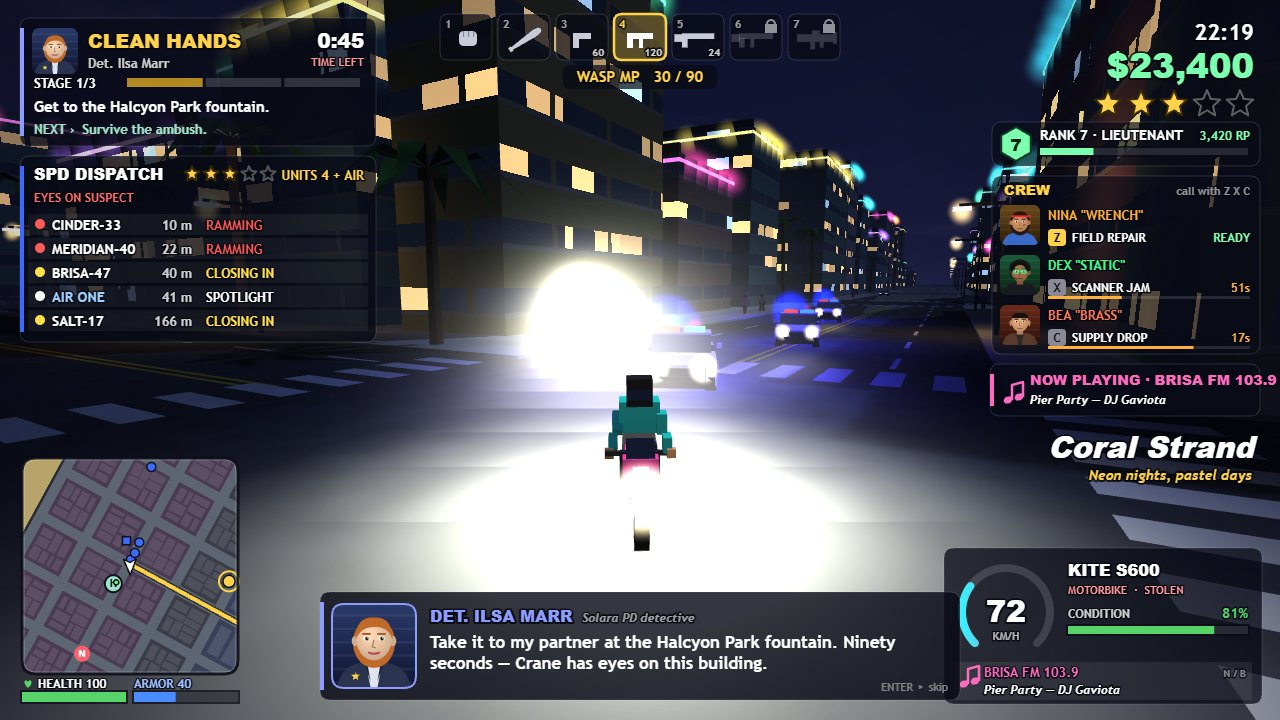
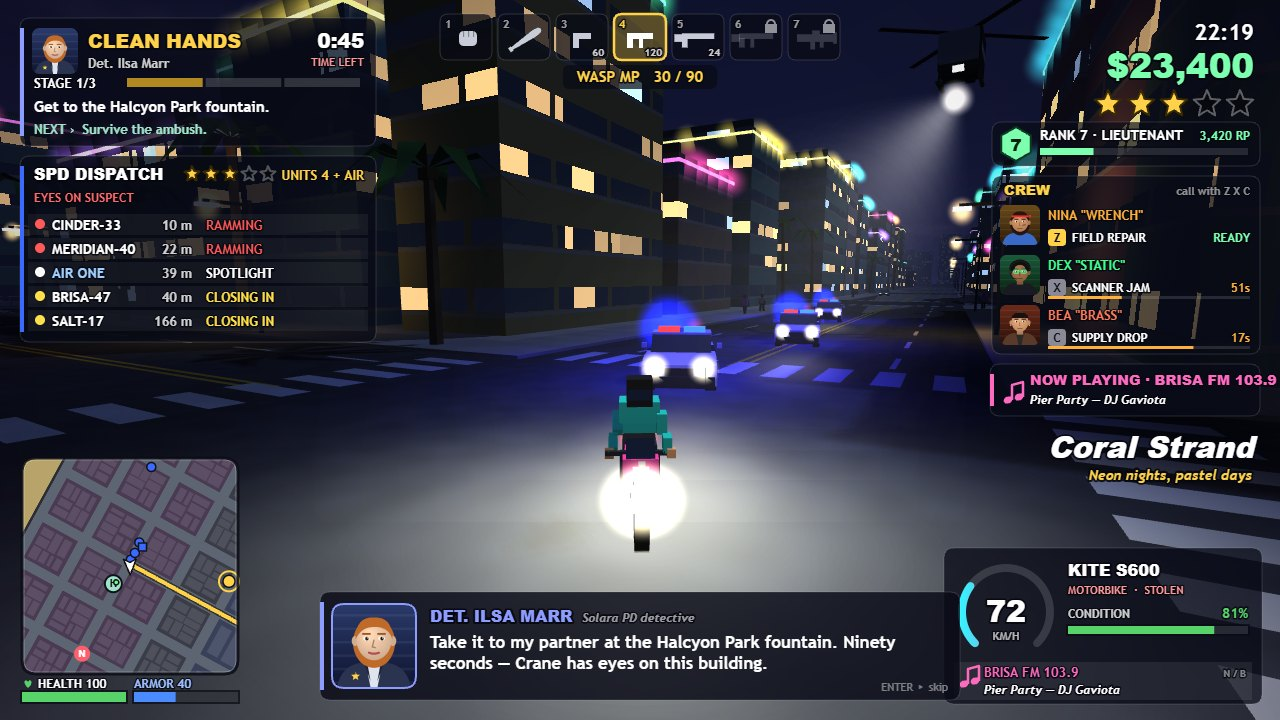
Mainland skyline across the bay, softer spotlight cone, helicopter framed in the night shot

diff --git a/game/src/world/citymesh.js b/game/src/world/citymesh.js
@@ -56,6 +56,7 @@ export function buildCityMeshes(city) {
   buildEdgeGreenery(cs, rng);
   buildFreighter(cs.global);
   buildPier(cs.global);
+  buildMainlandSkyline(cs.global, makeRng(4242));
   const ferris = buildFerrisWheel();
   return { ...cs.build(), ferris, ferrisCenter: [PIER.x1 - 30, 26, (PIER.z0 + PIER.z1) / 2] };
 }
@@ -342,6 +343,42 @@ function buildEdgeGreenery(cs, rng) {
     const b = { x: -26 + rng.range(-4, 4), z: t + rng.range(-2, 2), h: rng.range(5, 8), r: rng.range(2.5, 3.8) };
     buildTree(cs.at(a.x, a.z), a);
     buildTree(cs.at(b.x, b.z), b);
+  }
+}
+
+/**
+ * The mainland across the bay: three strips of shore with dense tower clusters on the horizon (north, south and
+ * west), so every street view ends in a skyline. They have no colliders; fog turns them into hazy silhouettes.
+ */
+function buildMainlandSkyline(m, rng) {
+  const HAZE = ['#8fa6bc', '#a9b8c8', '#7c93ab', '#b9c4cf', '#6f86a0', '#9aa7b8', '#c4b8a8'];
+  const strips = [
+    { x0: -160, x1: 1180, z0: -420, z1: -300, along: 'x' },
+    { x0: -160, x1: 1060, z0: 1300, z1: 1420, along: 'x' },
+    { x0: -440, x1: -330, z0: -200, z1: 1200, along: 'z' },
+  ];
+  for (const st of strips) {
+    m.box(st.x0, -0.6, st.z0, st.x1, 1.2, st.z1, C('#5d6b5a'), MAT.MATTE, { noBottom: true });
+    const len = st.along === 'x' ? st.x1 - st.x0 : st.z1 - st.z0;
+    for (let a = 10; a < len - 10;) {
+      const t = a / len;
+      const core = Math.exp(-Math.pow((t - 0.55) / 0.18, 2));
+      const w = rng.range(14, 34), dpt = rng.range(14, 30);
+      const h = 18 + rng.range(10, 40) + core * rng.range(50, 150);
+      const off = rng.range(8, 110 - dpt);
+      const b = st.along === 'x'
+        ? { x0: st.x0 + a, x1: st.x0 + a + w, z0: st.z0 + off, z1: st.z0 + off + dpt }
+        : { x0: st.x0 + off, x1: st.x0 + off + dpt, z0: st.z0 + a, z1: st.z0 + a + w };
+      const col = C(rng.pick(HAZE));
+      const roof = shade(col, 0.7);
+      if (h > 90 && rng() < 0.6) {
+        const iw = (b.x1 - b.x0) * 0.18, id = (b.z1 - b.z0) * 0.18;
+        m.box(b.x0, 1, b.z0, b.x1, h * 0.7, b.z1, col, MAT.TOWER, { top: roof, noBottom: true });
+        m.box(b.x0 + iw, h * 0.7, b.z0 + id, b.x1 - iw, h, b.z1 - id, col, MAT.TOWER, { top: roof, noBottom: true });
+        m.cbox((b.x0 + b.x1) / 2, h, (b.z0 + b.z1) / 2, 0.9, 0.9, 0.9, C('#ff3030'), MAT.EMISSIVE);
+      } else m.box(b.x0, 1, b.z0, b.x1, h, b.z1, col, h > 50 ? MAT.TOWER : MAT.FACADE, { top: roof, noBottom: true });
+      a += w + rng.range(2, 12) * (1.2 - core);
+    }
   }
 }
 

diff --git a/game/src/systems/police.js b/game/src/systems/police.js
@@ -378,14 +378,14 @@ export class PoliceSystem {
   renderSpotlight(r, env, right, up) {
     const h = this.heli;
     if (!h || h.hp <= 0 || !h.spot || this.stars < 3) return;
-    const k = 0.9 + env.night * 0.4;
+    const k = 0.9 - env.night * 0.4;
     const sx = h.spot.x, sz = h.spot.z;
     const ox = h.x + Math.sin(h.heading) * 2, oy = h.y - 1.2, oz = h.z + Math.cos(h.heading) * 2;
     const n = 18;
     for (let i = 1; i <= n; i++) {
       const t = i / n;
       const x = ox + (sx - ox) * t, y = oy + (0.6 - oy) * t, z = oz + (sz - oz) * t;
-      const a = 0.07 + 0.08 * (1 - t);
+      const a = 0.025 + 0.12 * (1 - t) * (1 - t);
       r.billboard(x, y, z, 0.5 + t * 4.2, a * 2.2 * k, a * 2.15 * k, a * 1.9 * k, 0, right, up);
     }
     r.groundQuad(sx, sz, 0.09, 6.5, 6.5, 0, 0.55 * k, 0.55 * k, 0.48 * k, 0);

diff --git a/game/src/core/shots.js b/game/src/core/shots.js
@@ -176,7 +176,8 @@ export const SHOTS = {
     simulate(g, 1.2);
     g.camera.yaw = 0.5; g.camera.pitch = 0.16; g.camera.lookTimer = 99;
     g.camera.update(1, g);
-    heliInView(g, 46, -0.12, 0.17);
+    heliInView(g, 46, -0.1, 0.09);
+    { const h = g.police.heli; h.x = g.player.x - 3; h.z = g.player.z + 36; h.y = 15; h.heading = Math.atan2(g.player.x - h.x, g.player.z - h.z); }
     g.hud.showSong(g.radio.nowPlaying);
     sayNow(g, 'DET. MARR', 'Take it to my partner at the Halcyon Park fountain. Ninety seconds — Crane has eyes on this building.');
   },
